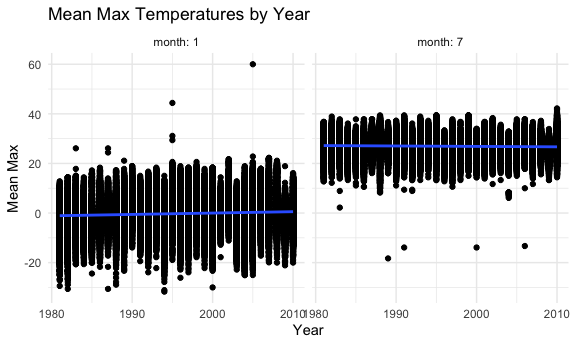
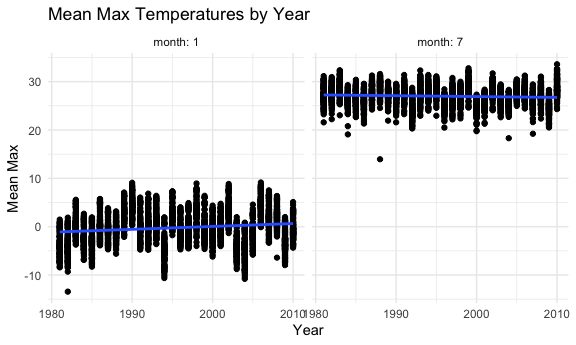
last minute realized mistake with mean

diff --git a/p8105_hw3_ar4041.md b/p8105_hw3_ar4041.md
@@ -261,8 +261,8 @@ snowfall in millimeters; and snwd refers to snow depth in millimeters.
 ny_noaa %>% 
   separate(date, into = c("year", "month", "day"), convert = TRUE) %>% 
   mutate(
-    tmax = as.numeric(tmax)/100,
-    tmin = as.numeric(tmin)/100
+    tmax = as.numeric(tmax)/10,
+    tmin = as.numeric(tmin)/10
   ) %>% 
   group_by(snow) %>% 
   count(snow) %>% 
@@ -298,7 +298,7 @@ ny_noaa %>%
     tmin = as.numeric(tmin)/10
   ) %>% 
   group_by(id, year, month) %>% 
-  summarize(tmax_mean = tmax) %>% 
+  summarize(tmax_mean = mean(tmax)) %>% 
   drop_na(tmax_mean) %>% 
   ggplot(aes(x = year, y = tmax_mean)) + 
   geom_point() +
@@ -313,7 +313,7 @@ ny_noaa %>%
   )
 ```
 
-    ## `summarise()` regrouping output by 'id', 'year', 'month' (override with `.groups` argument)
+    ## `summarise()` regrouping output by 'id', 'year' (override with `.groups` argument)
 
     ## `geom_smooth()` using formula 'y ~ x'
 
